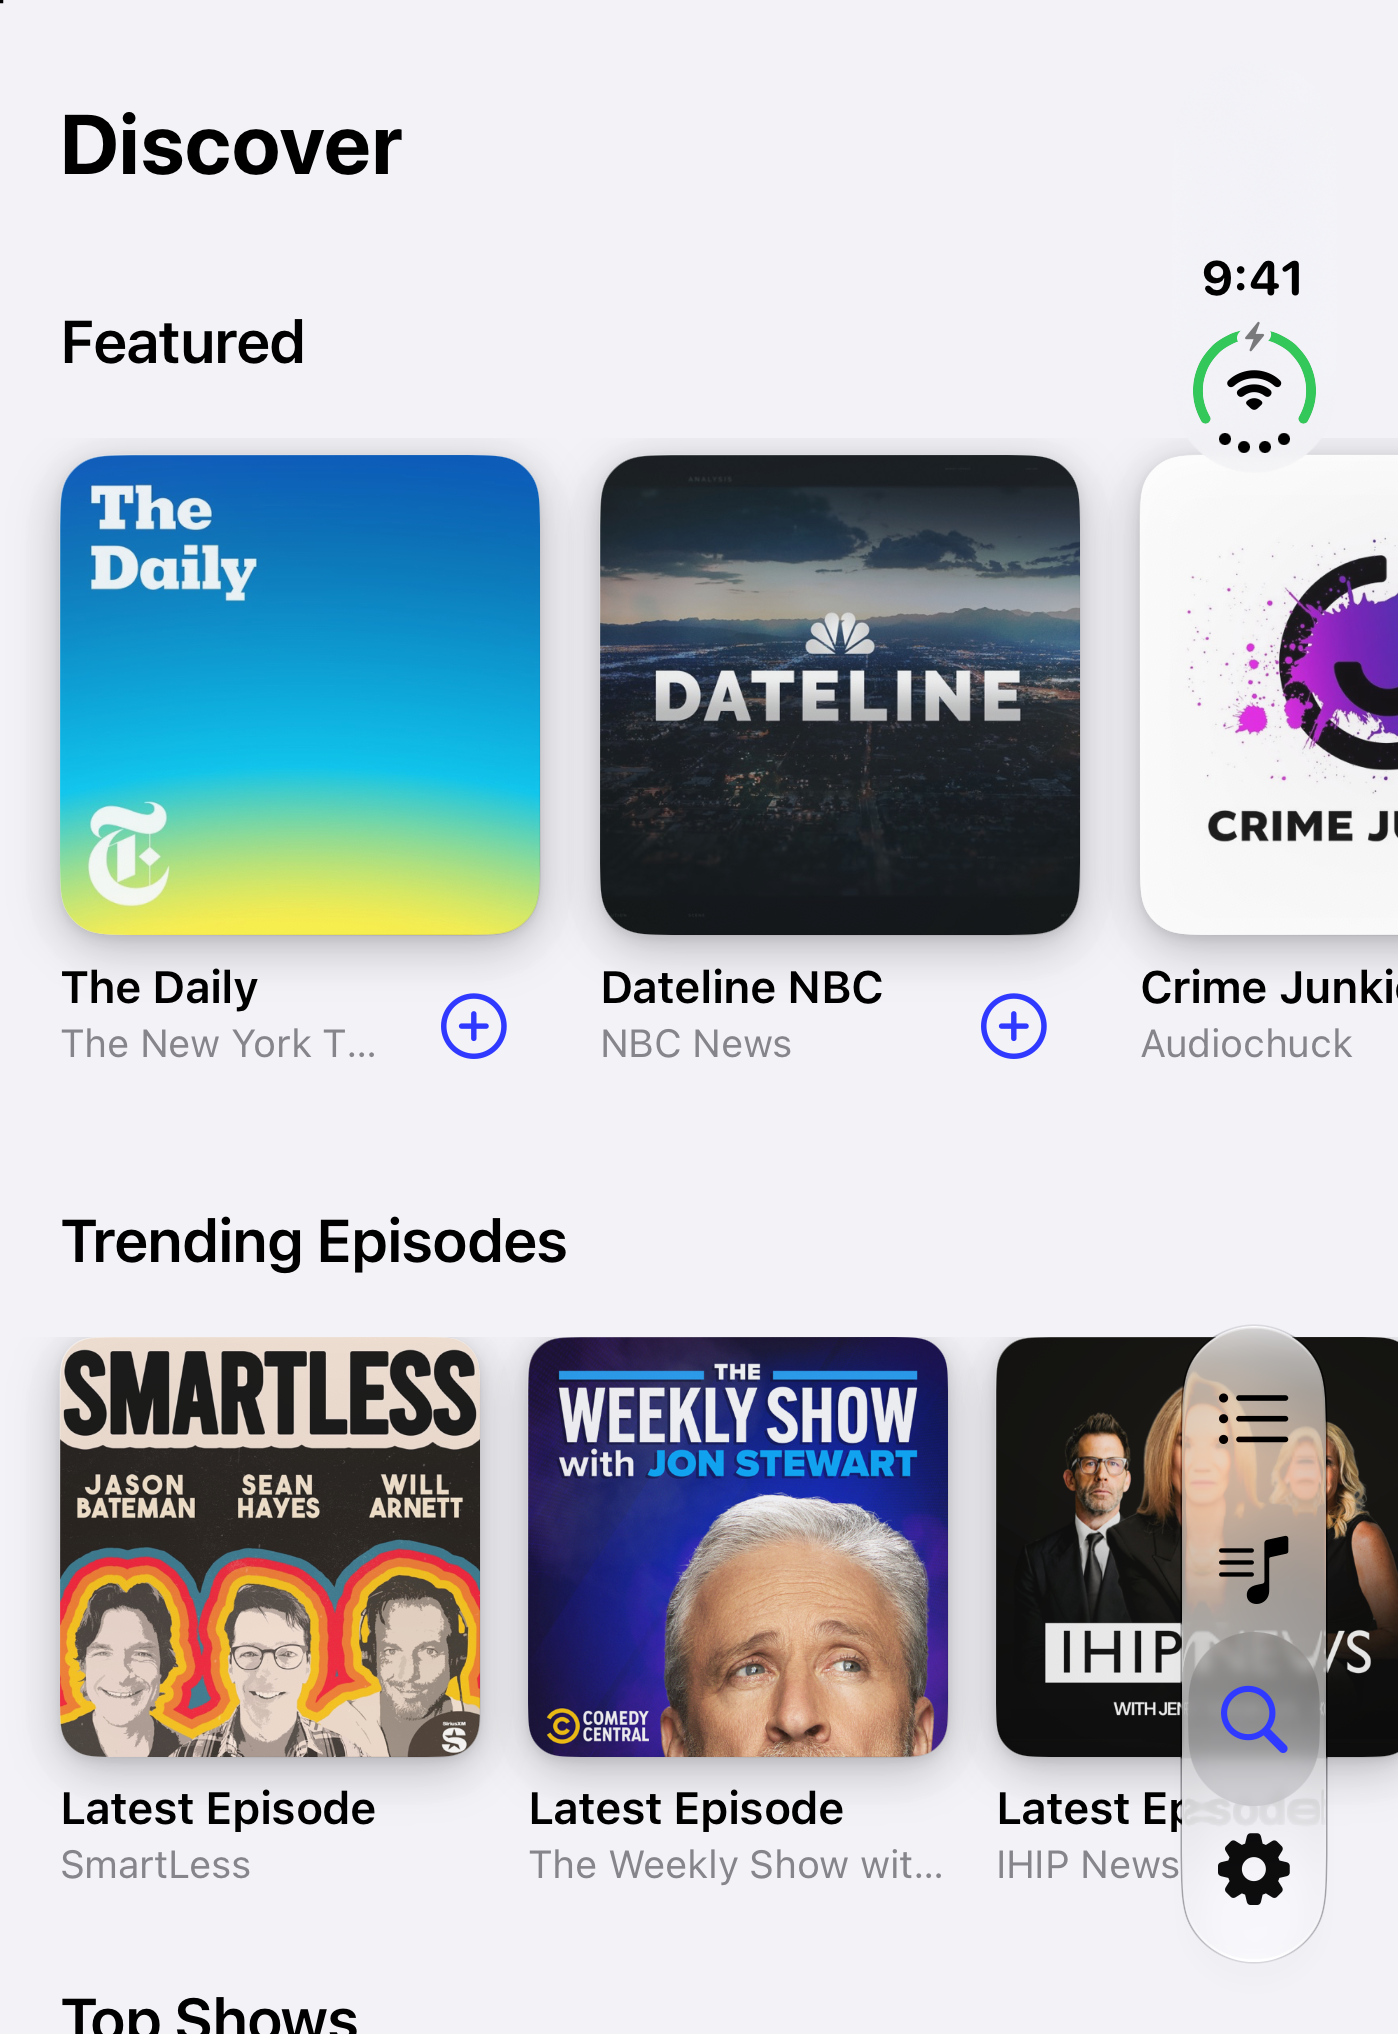
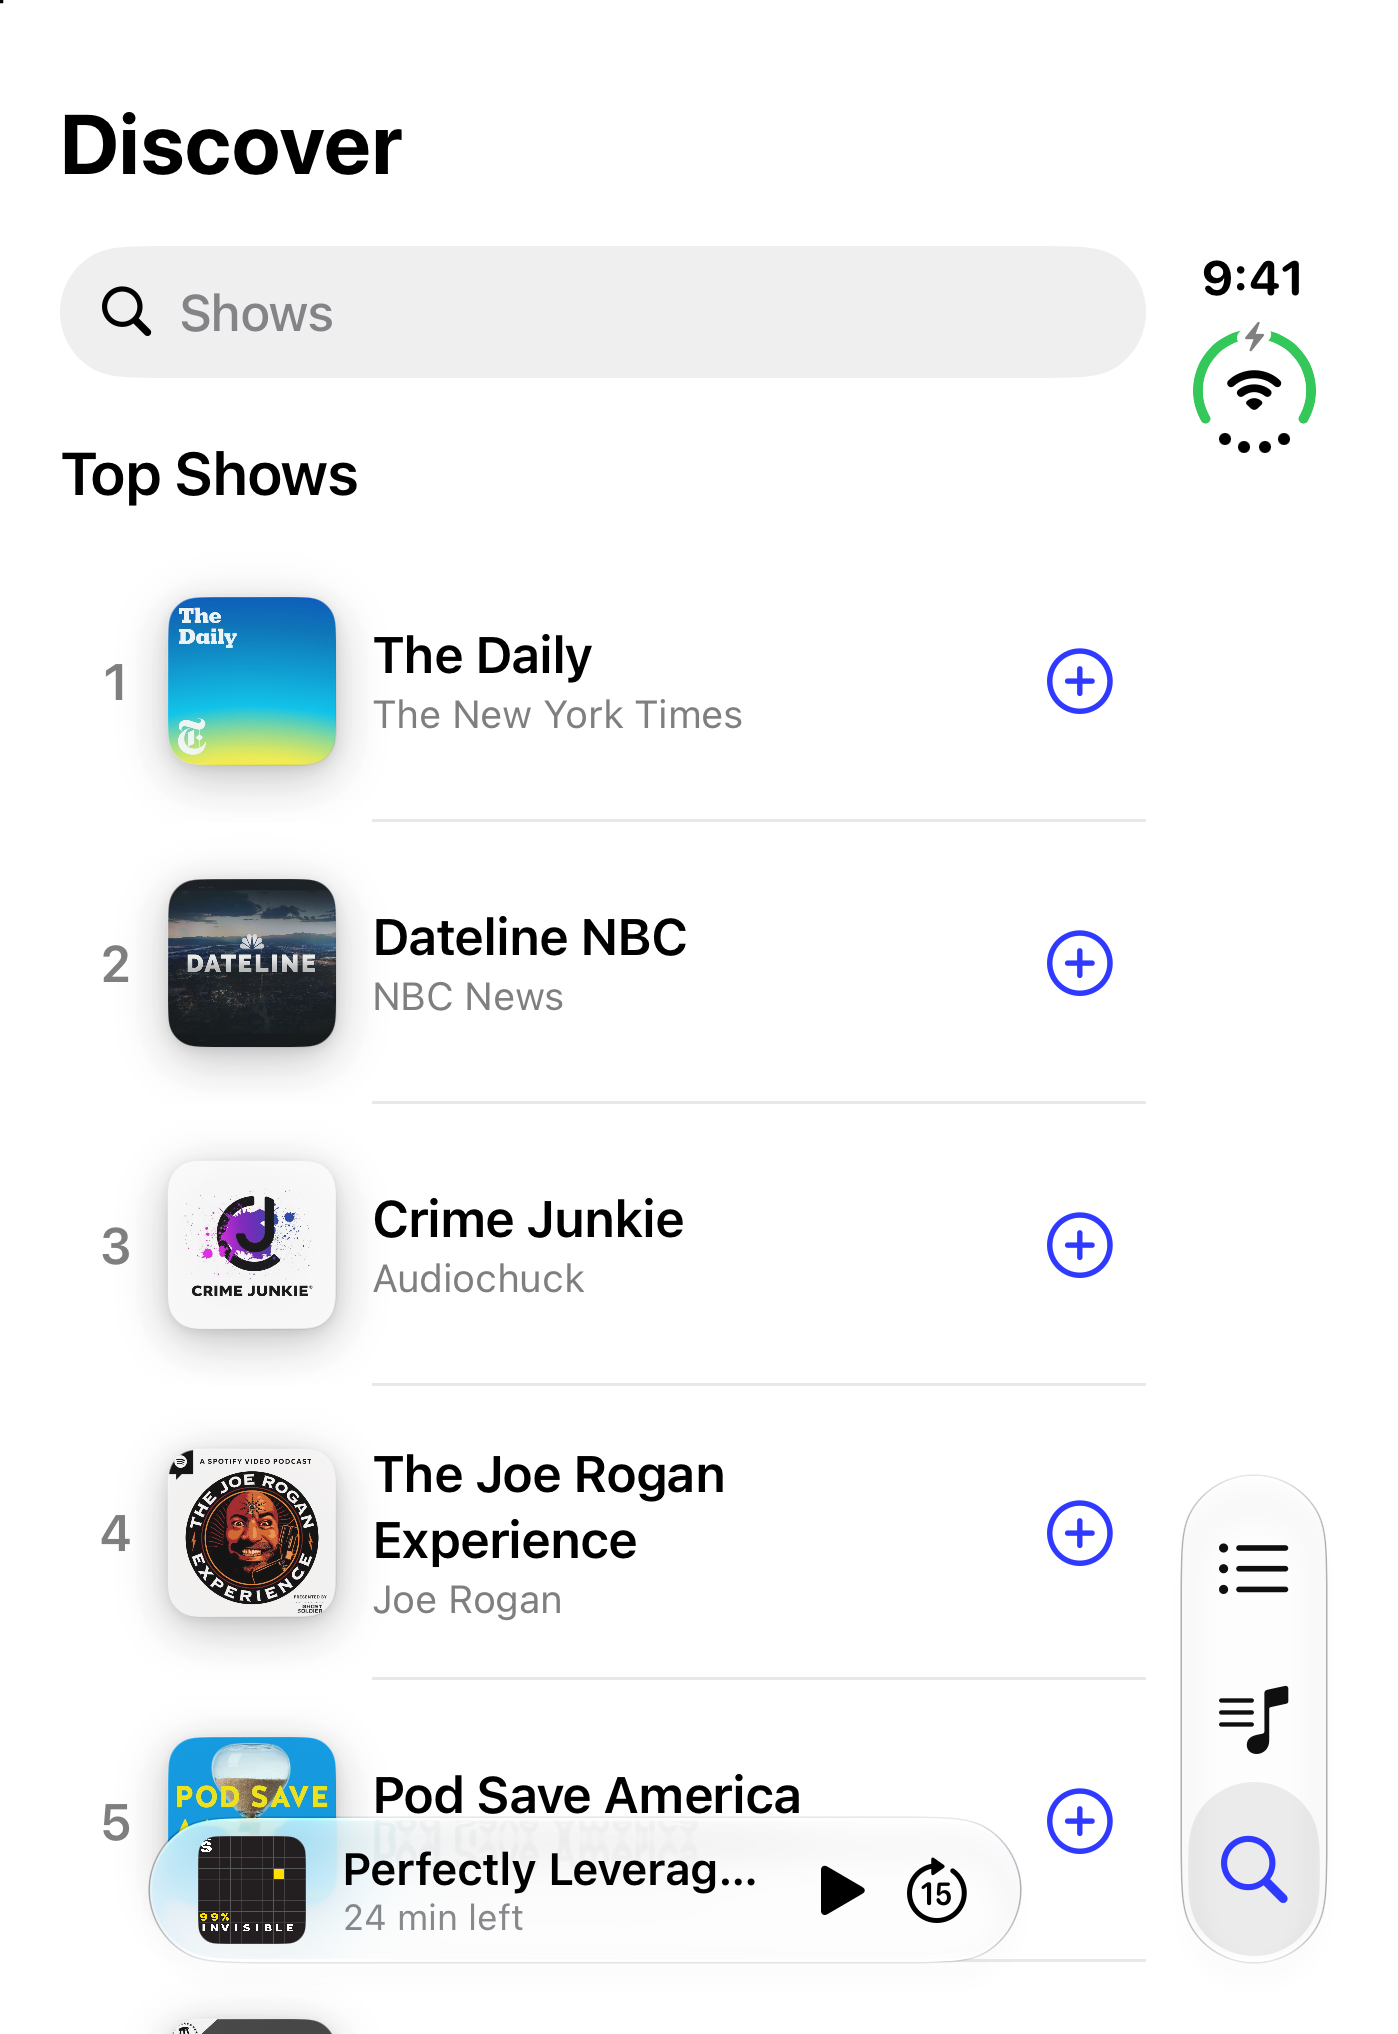
Refresh README screenshots for the redesign; hide tips in screenshot runs

diff --git a/Jimmy/JimmyApp.swift b/Jimmy/JimmyApp.swift
@@ -167,6 +167,10 @@ struct JimmyApp: App {
     // MARK: - Initialization
 
     private func configureTips() {
+        // Screenshots for the README show the screens, not first-run tips.
+        if ProcessInfo.processInfo.environment["JIMMY_SCREENSHOT_ROUTE"] != nil {
+            Tips.hideAllTipsForTesting()
+        }
         do {
             try Tips.configure([
                 .displayFrequency(.daily),

diff --git a/tasks/todo.md b/tasks/todo.md
@@ -139,7 +139,7 @@ slop check in `docs/design.md`.
 - [x] S6. Search and Discover: recent searches, Top Shows (S). Categories wait for a genre chart in JimmyKit's
   `PodcastDirectory`.
 - [x] S7. Settings: `Form` (S)
-- [ ] S8. Refresh `docs/screenshots` with `Tools/screenshots.sh` (H)
+- [x] S8. Refresh `docs/screenshots` with `Tools/screenshots.sh` (H)
 
 ## Only Chen
 - Export `jimmy.db` from the phone (PR 7).
